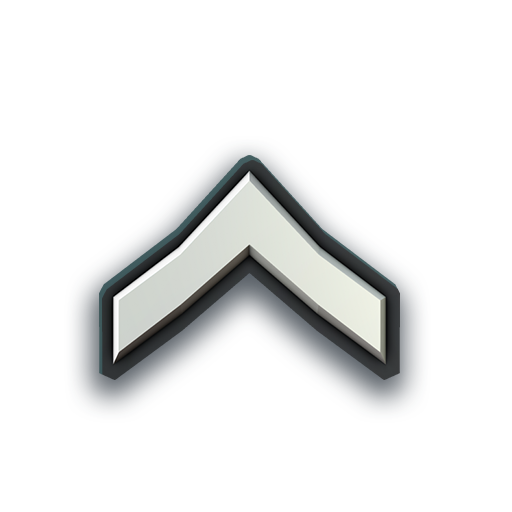
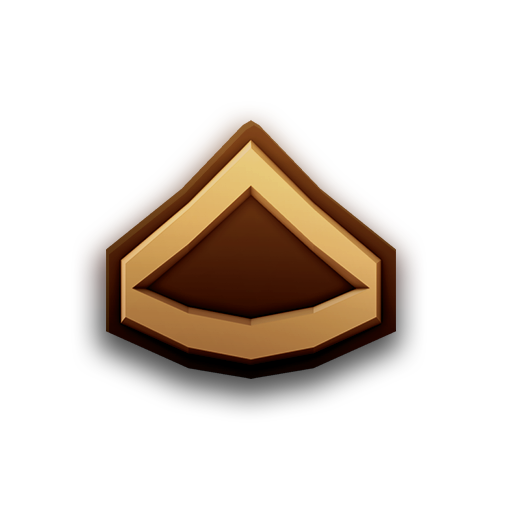
v0.0.17 ranks: Dog-Ear I–III are the bronze rocker insignia; the silver chevrons are kept, unassigned
Claude-Session: https://claude.ai/code/session_01WVtVwSA278bNE4nXGcRcZg

Changed region(s): [[0.1562, 0.2188, 0.8125, 0.8125]]

diff --git a/assets/ranks/README.md b/assets/ranks/README.md
@@ -7,8 +7,11 @@ named `<rank-id>-<level>.png`. They are wired into the game once every batch has
 |---|---|---|---|---|
 | 1 | Blank Page | Recruit | I–III (three only) | `blank-page-1.png` (one bronze chevron), `blank-page-2.png` (two), `blank-page-3.png` (three) |
 | 2 | Scribbler | Private | I–III (three only) | `scribbler-1.png` (one bronze upward chevron, dark outline), `scribbler-2.png` (two), `scribbler-3.png` (three) |
-| 3 | Dog-Ear | Private First Class | I–III (three only) | `dog-ear-1.png` (one silver upward chevron, dark outline), `dog-ear-2.png` (two), `dog-ear-3.png` (three) |
+| 3 | Dog-Ear | Private First Class | I–III (three only) | `dog-ear-1.png` (bronze: one chevron over a rocker), `dog-ear-2.png` (three chevrons over a rocker), `dog-ear-3.png` (three chevrons, a rocker and two bars) |
 | 4 | Paper Dart | Corporal | I–III (three only) | `paper-dart-1.png` (one gold upward chevron, dark outline), `paper-dart-2.png` (two), `paper-dart-3.png` (three) |
 | 11 | Valedictorian | Colonel | I–III: bronze, silver, gold thin wings | `valedictorian-1.png` (bronze), `valedictorian-2.png` (silver), `valedictorian-3.png` (gold) |
 | 12 | Head of the Class | General | I–III: bronze, silver, gold thick wings | `head-of-the-class-1.png` (bronze), `head-of-the-class-2.png` (silver), `head-of-the-class-3.png` (gold) |
 | ∞ | Honor Roll | Marshal | One insignia, plus stars | `honor-roll.png` (gold swept wings) |
+
+Not yet assigned to a rank: `unassigned-silver-chevrons-1.png` to `-3.png` (one, two and three silver
+upward chevrons with a dark outline, sent first as Dog-Ear and then replaced).
